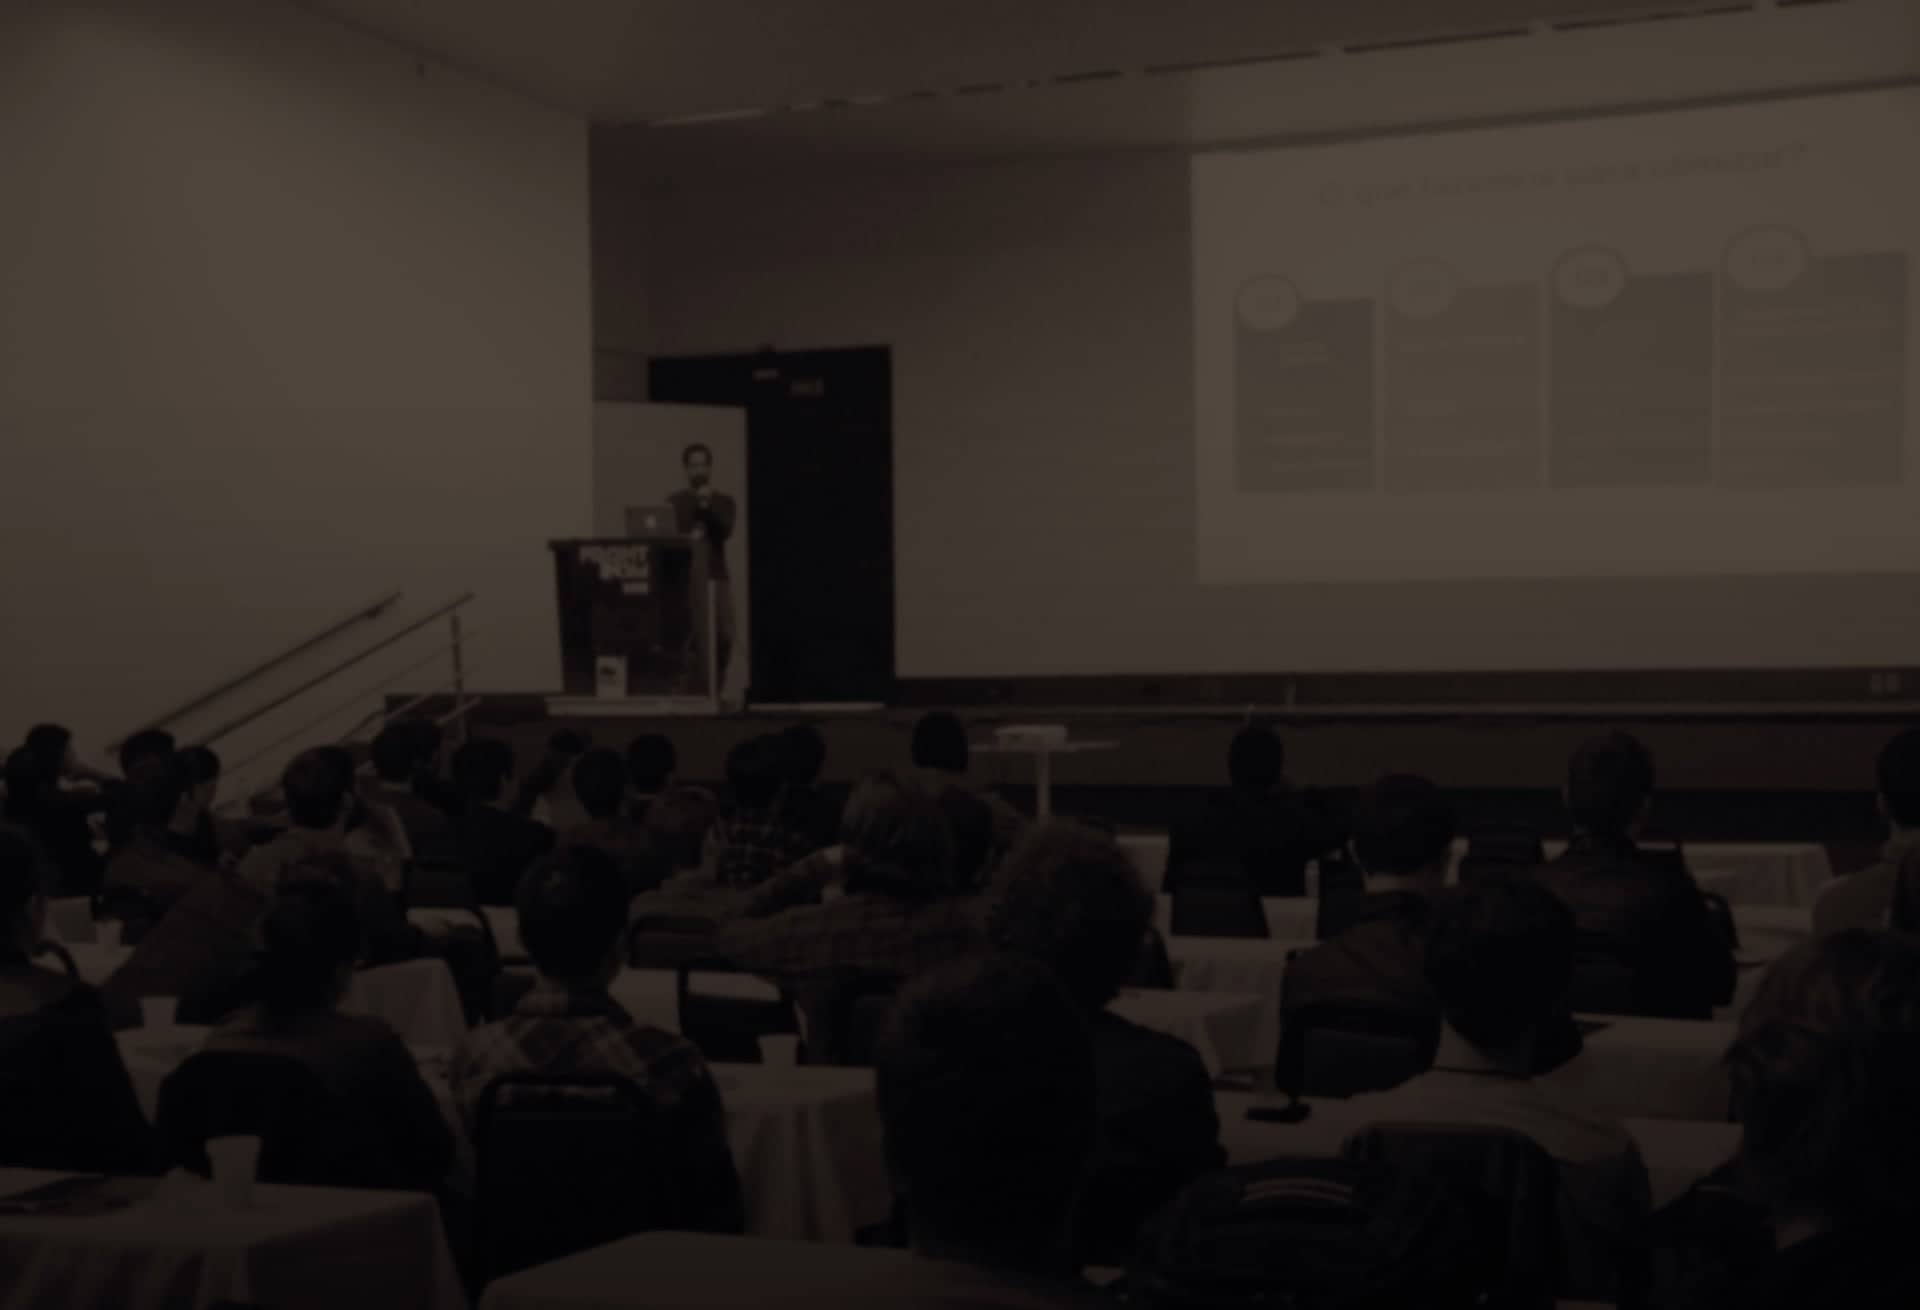
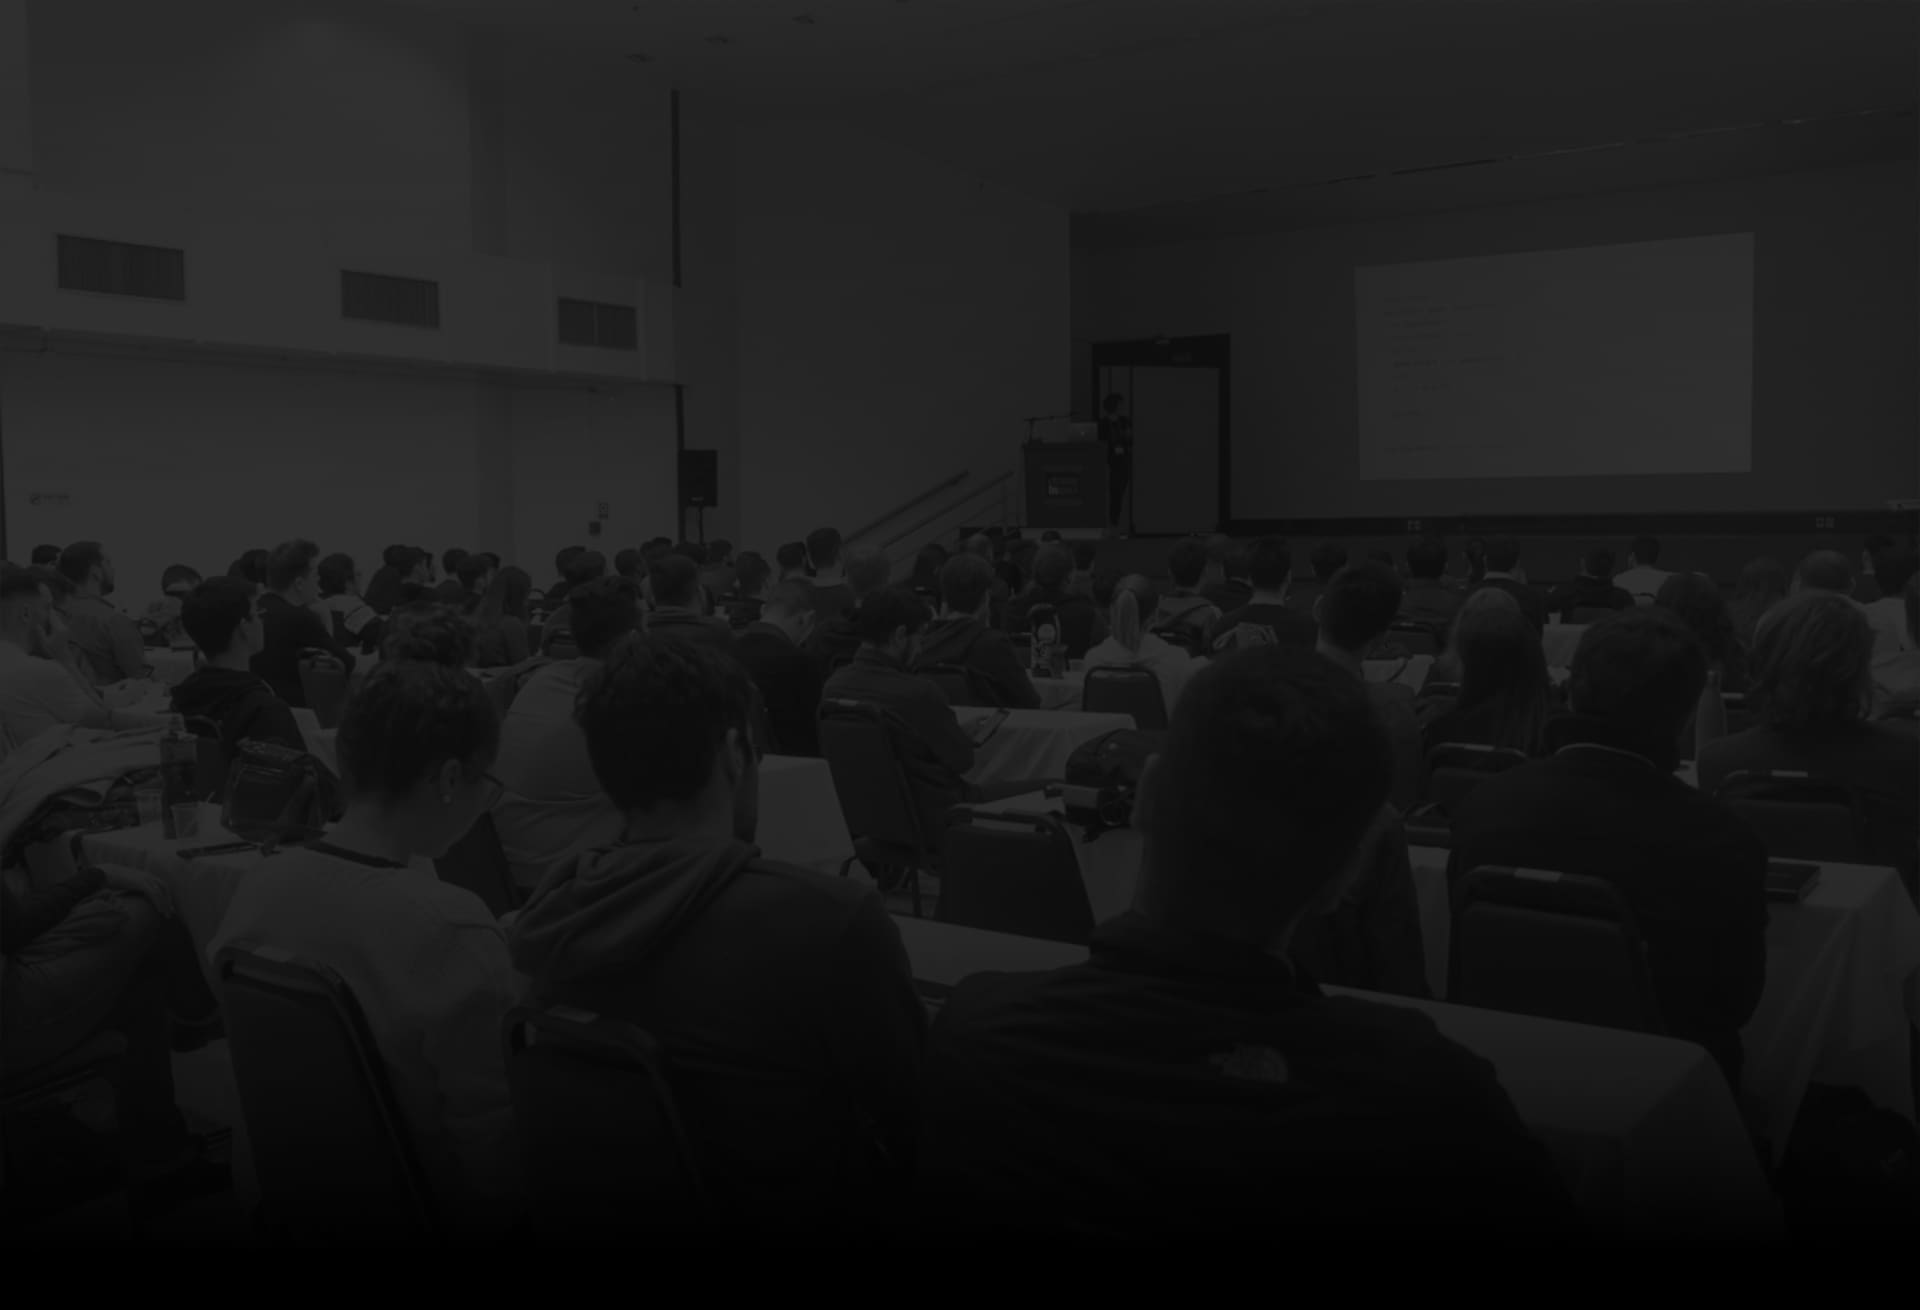
add landing page without details

diff --git a/src/pages/Home.jsx b/src/pages/Home.jsx
@@ -1,33 +1,12 @@
-import React from 'react'
-import {
-  About,
-  Banner,
-  Faq,
-  Features,
-  Lead,
-  Speakers,
-  Sponsors,
-  Staff,
-} from '../sections'
-
-import content from '../data/content'
-
 import './Home.scss'
-import Partners from '../sections/Partners'
-import Program from '../sections/Program'
+
+import { Banner } from '../sections'
+import React from 'react'
+import content from '../data/content'
 
 const Home = () => (
   <main className='home'>
     <Banner {...content.banner} />
-    <Lead />
-    <About />
-    <Features />
-    <Speakers />
-    <Program />
-    <Sponsors />
-    <Faq />
-    <Staff />
-    <Partners />
   </main>
 )
 

diff --git a/src/data/content.js b/src/data/content.js
@@ -1,11 +1,11 @@
 const content = {
   banner: {
-    date: '8 de Junho',
-    time: '9h',
-    place: 'Itaimbé Palace Hotel',
+    date: '??/??',
+    time: '??:??',
+    place: '...',
     cta: {
-      text: 'Inscreva-se',
-      link: 'https://www.sympla.com.br/front-in-santa-maria__461618',
+      text: 'Em breve',
+      link: '',
     },
   },
   about: {

diff --git a/src/sections/Banner.scss b/src/sections/Banner.scss
@@ -4,9 +4,9 @@
 
 .banner {
   align-items: center;
-  background-image: url("../images/home__banner.jpg");
+  background-image: url('../images/home__banner.jpg');
   background-size: cover;
-  background-position: center;
+  background-position: bottom center;
   background-repeat: no-repeat;
   display: flex;
   flex: 1;

diff --git a/src/sections/Banner.jsx b/src/sections/Banner.jsx
@@ -1,8 +1,8 @@
-import React from 'react'
+import './Banner.scss'
+
 import { Button } from '../components/ui'
 import { ReactComponent as Logo } from '../images/logo.svg'
-
-import './Banner.scss'
+import React from 'react'
 
 const Banner = ({ date, time, place, cta }) => (
   <div className='banner'>
